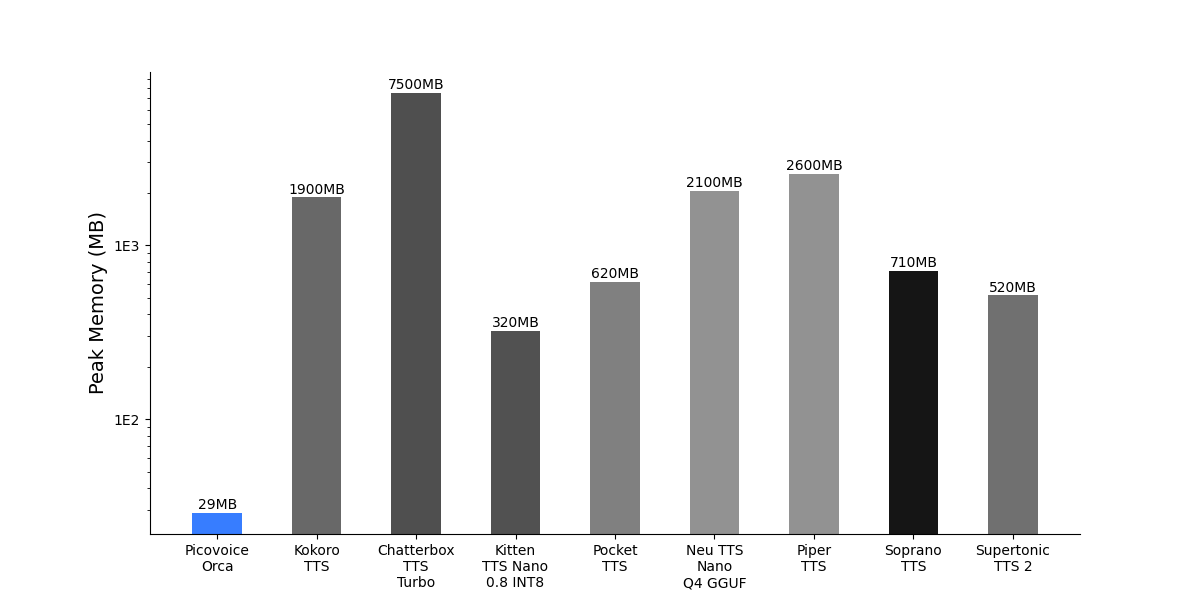
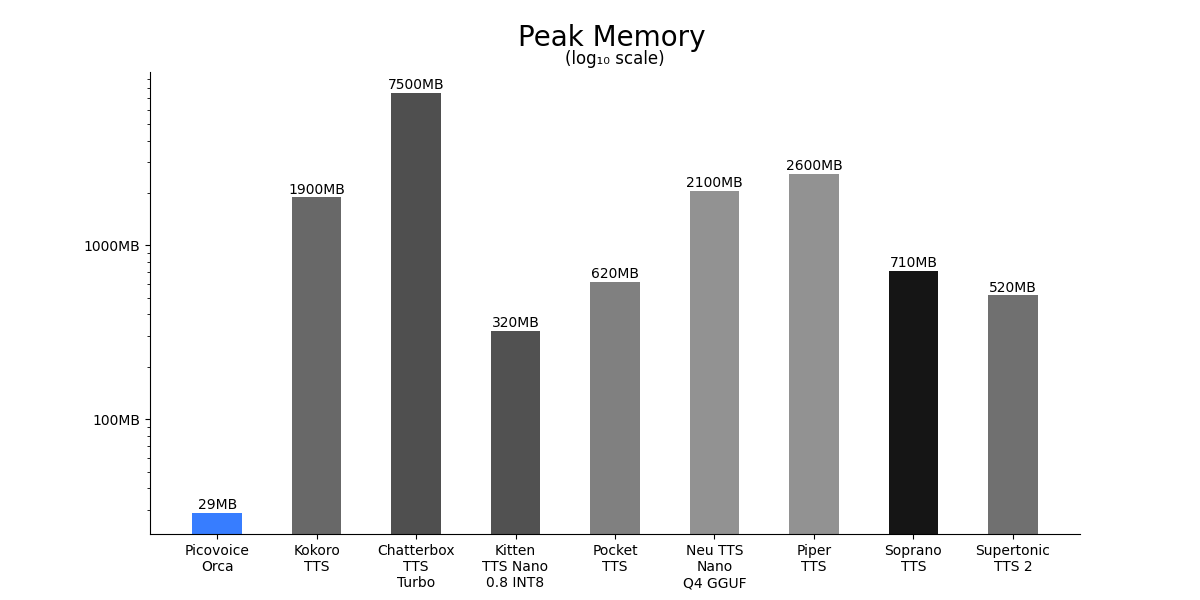
Updated plots.

Changed region(s): [[0.4317, 0.03, 0.5858, 0.12], [0.0617, 0.36, 0.1233, 0.66], [0.0617, 0.69, 0.1233, 0.72]]

diff --git a/plot_results_latency.py b/plot_results_latency.py
@@ -6,7 +6,8 @@ import matplotlib.pyplot as plt
 import numpy as np
 from matplotlib.ticker import (
     FuncFormatter,
-    LogLocator
+    LogLocator,
+    MaxNLocator
 )
 
 from benchmark import (
@@ -17,6 +18,7 @@ from tts import Synthesizers
 
 Color = Tuple[float, float, float]
 DEFAULT_PLOTS_FOLDER = os.path.join(os.path.dirname(__file__), "results/plots")
+CAP_VAL = 4000
 
 
 def rgb_from_hex(x: str) -> Color:
@@ -106,10 +108,15 @@ def _plot(
     num_results = len(results)
 
     fig, ax = plt.subplots(figsize=(12, 6))
-    ax.set_yscale("log", base=10)
+    ax.set_yscale("linear")
 
     def round_result(value: float) -> float:
         return round(value, -1)
+
+    def cap_value(x: float) -> Tuple[float, bool]:
+        if x > CAP_VAL:
+            return CAP_VAL, True
+        return x, False
 
     bottoms = [0.0 for _ in range(num_results)]
     if not only_tts:
@@ -117,10 +124,11 @@ def _plot(
         rounded_results = []
         colors = []
         for synthesizer, mean, std in results:
-            rounded_result = round_result(mean.time_to_first_token)
-            rounded_results.append(rounded_result)
+            raw_val = round_result(mean.time_to_first_token)
+            capped_val, is_capped = cap_value(raw_val)
+            rounded_results.append(capped_val)
             colors.append(ENGINE_COLORS[synthesizer])
-            bottoms.append(rounded_result)
+            bottoms.append(capped_val)
         ax.bar(
             range(num_results),
             rounded_results,
@@ -171,20 +179,31 @@ def _plot(
 
         return result + unit
 
+    has_anomaly = False
+
     for i, (synthesizer, mean, std) in enumerate(results):
-        mean_total_delay = mean.voice_assistant_response_time if not only_tts else mean.first_token_to_speech
+        mean_total_delay_true = mean.voice_assistant_response_time if not only_tts else mean.first_token_to_speech
         std_total_delay = std.voice_assistant_response_time if not only_tts else std.first_token_to_speech
+
+        mean_total_delay_capped, is_capped = cap_value(mean_total_delay_true)
+
+        if is_capped:
+            label = f"*{regular_notation(mean_total_delay_true)}"
+            has_anomaly = True
+        else:
+            label = f"{regular_notation(mean_total_delay_true)}"
+
         string_above_bar = (
-            f"{regular_notation(mean_total_delay)}" if not show_error_bars
-            else f"{regular_notation(mean_total_delay)}±{regular_notation(std_total_delay)}"
+            f"{label}" if not show_error_bars
+            else f"{label}±{regular_notation(std_total_delay)}"
         )
         ax.text(
             i,
-            mean_total_delay * 1.05,
+            mean_total_delay_capped + 40,
             string_above_bar,
             ha="center",
             color=BLACK,
-            fontsize=10,
+            fontsize=8,
         )
 
     if show_error_bars:
@@ -214,13 +233,25 @@ def _plot(
     plt.xticks(
         np.arange(num_results),
         [ENGINE_PRINT_NAMES[x[0]] for x in results],
-        fontsize=8,
+        fontsize=7,
     )
-    ax.yaxis.set_major_locator(LogLocator(base=10))
-    ax.yaxis.set_major_formatter(FuncFormatter(lambda x, pos: scientific_notation(x, 0)))
+    ax.yaxis.set_major_locator(MaxNLocator(nbins=8))
+    ax.yaxis.set_major_formatter(
+        FuncFormatter(lambda x, _: str(int(x)) + "ms")
+    )
+    ax.set_ylim(0, CAP_VAL)
 
     metric = "Voice Assistant Response Time" if not only_tts else "First Token to Speech"
-    plt.ylabel(f"{metric} (ms)", fontsize=14)
+    plt.suptitle(f"{metric}", fontsize=20, x=0.51, y=0.96)
+
+    if has_anomaly:
+        plt.figtext(
+            0.99, 0.91,
+            "* Values are capped at 4000 ms for readability.\n  The actual values are shown above the bars.",
+            ha="right",
+            fontsize=9,
+            color=BLACK,
+        )
 
     if (not only_tts or show_error_bars) and not no_breakdown:
         ax.legend(loc="upper left", fontsize=12, framealpha=0)

diff --git a/plot_results_peak_memory.py b/plot_results_peak_memory.py
@@ -111,18 +111,17 @@ def _plot(
     for i, val in enumerate(mean_mem):
         ax.text(i, val * 1.05, regular_notation(float(val)), ha="center", fontsize=10, color=BLACK)
 
-    def log_e_formatter(x, pos):
-        if x == 0:
-            return "0"
-        exp = int(np.floor(np.log10(x)))
-        return f"1E{exp}"
+    def y_axis_formatter(x, pos):
+        return f"{x:.0f}MB"
 
     ax.set_xticks(range(len(MODELS)))
     ax.set_xticklabels([ENGINE_PRINT_NAMES[m] for m in MODELS], fontsize=10)
     ax.set_yscale("log", base=10)
     ax.yaxis.set_major_locator(ticker.LogLocator(base=10, subs=[1]))
-    ax.yaxis.set_major_formatter(FuncFormatter(log_e_formatter))
-    ax.set_ylabel("Peak Memory (MB)", fontsize=14)
+    ax.yaxis.set_major_formatter(FuncFormatter(y_axis_formatter))
+    metric = "Peak Memory"
+    plt.suptitle(f"{metric}", fontsize=20, x=0.51, y=0.96)
+    ax.set_title("(log₁₀ scale)", fontsize=12, pad=6)
 
     for spine in ax.spines.values():
         if spine.spine_type not in ["bottom", "left"]:

diff --git a/plot_results_core_hour_ratio.py b/plot_results_core_hour_ratio.py
@@ -165,16 +165,14 @@ def _plot(
     )
     ax.yaxis.set_major_locator(ticker.LogLocator(base=10))
 
-    def log_e_formatter(x, pos):
-        if x == 0:
-            return "0"
-        exp = int(np.log10(x))
-        return f"1E{exp}"
+    def y_axis_formatter(x, pos):
+        return f"{x:.0f}×"
 
-    ax.yaxis.set_major_formatter(FuncFormatter(log_e_formatter))
+    ax.yaxis.set_major_formatter(FuncFormatter(y_axis_formatter))
 
     metric = "Core Hour Ratio"
-    plt.ylabel(f"{metric}", fontsize=14)
+    plt.suptitle(f"{metric}", fontsize=20, x=0.51, y=0.96)
+    ax.set_title("(log₁₀ scale)", fontsize=12, pad=6)
 
     os.makedirs(os.path.dirname(output_path), exist_ok=True)
     plt.savefig(output_path)
